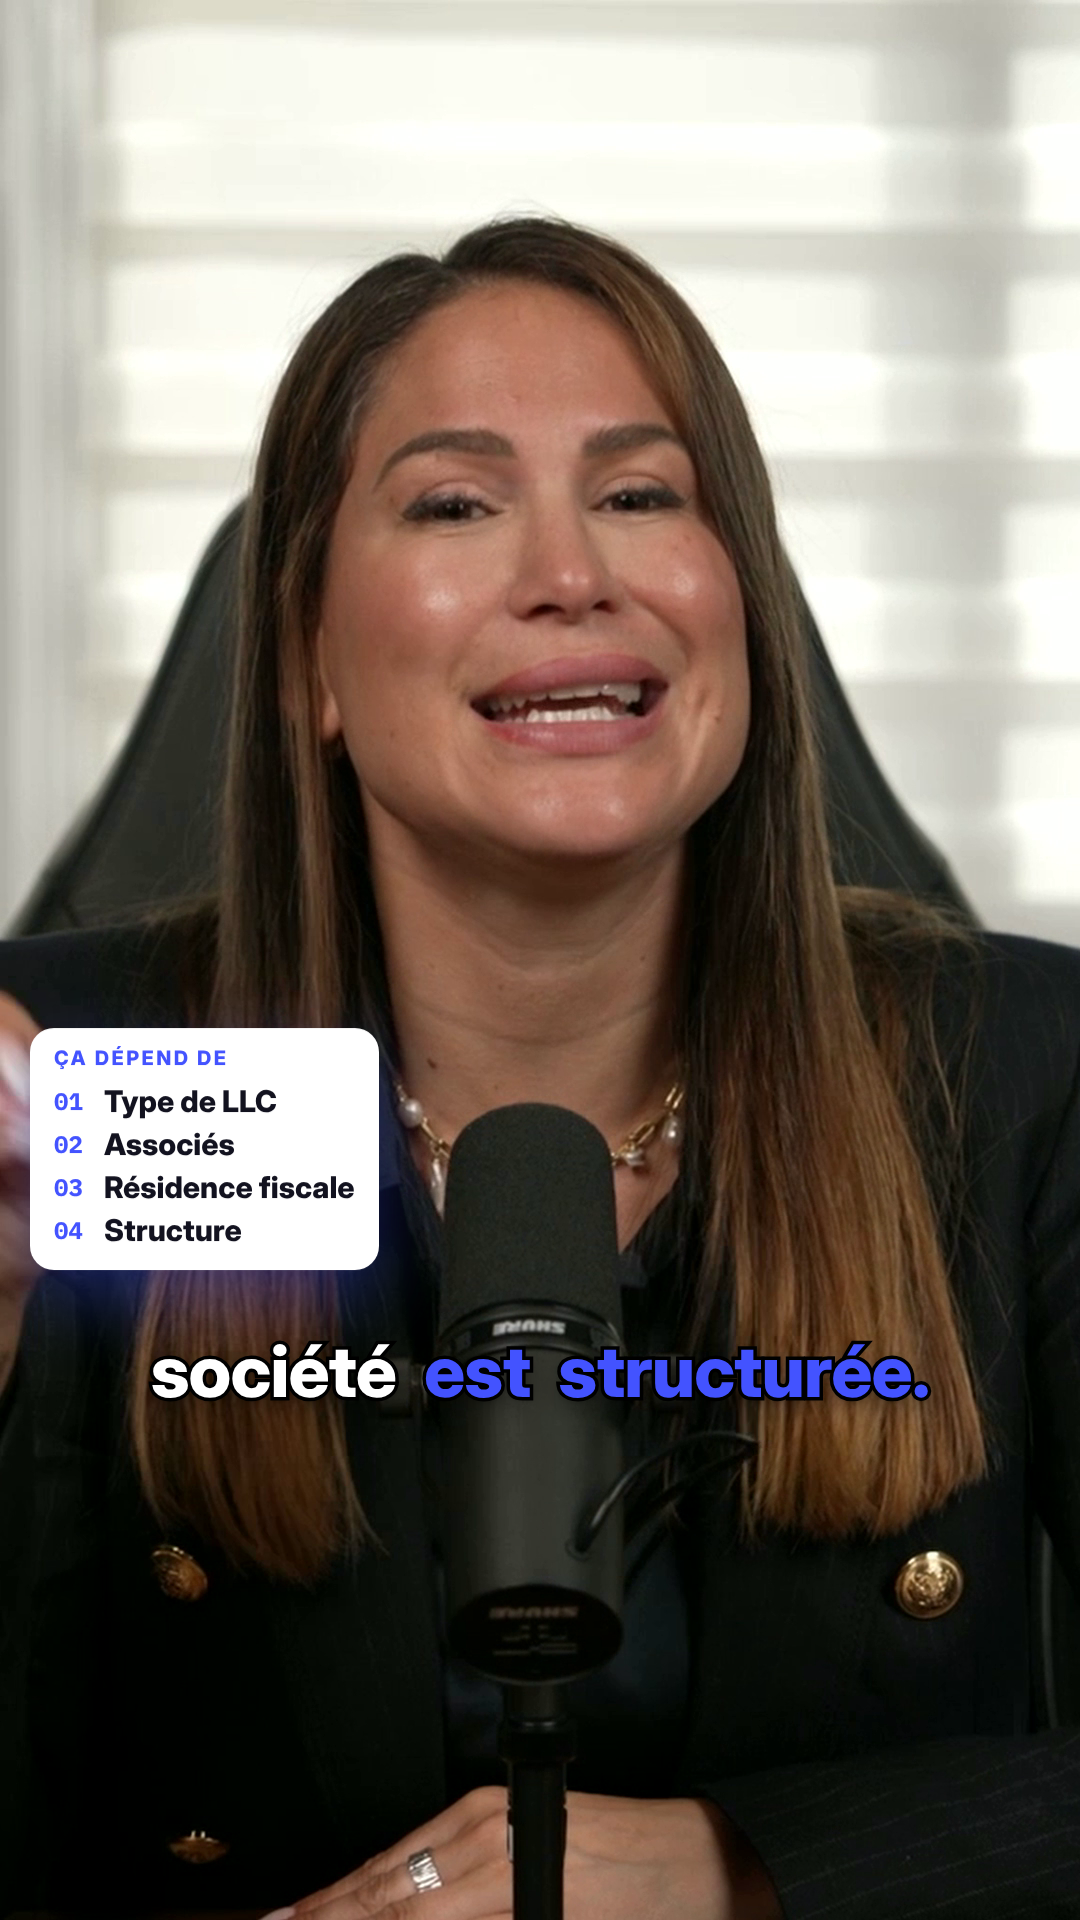
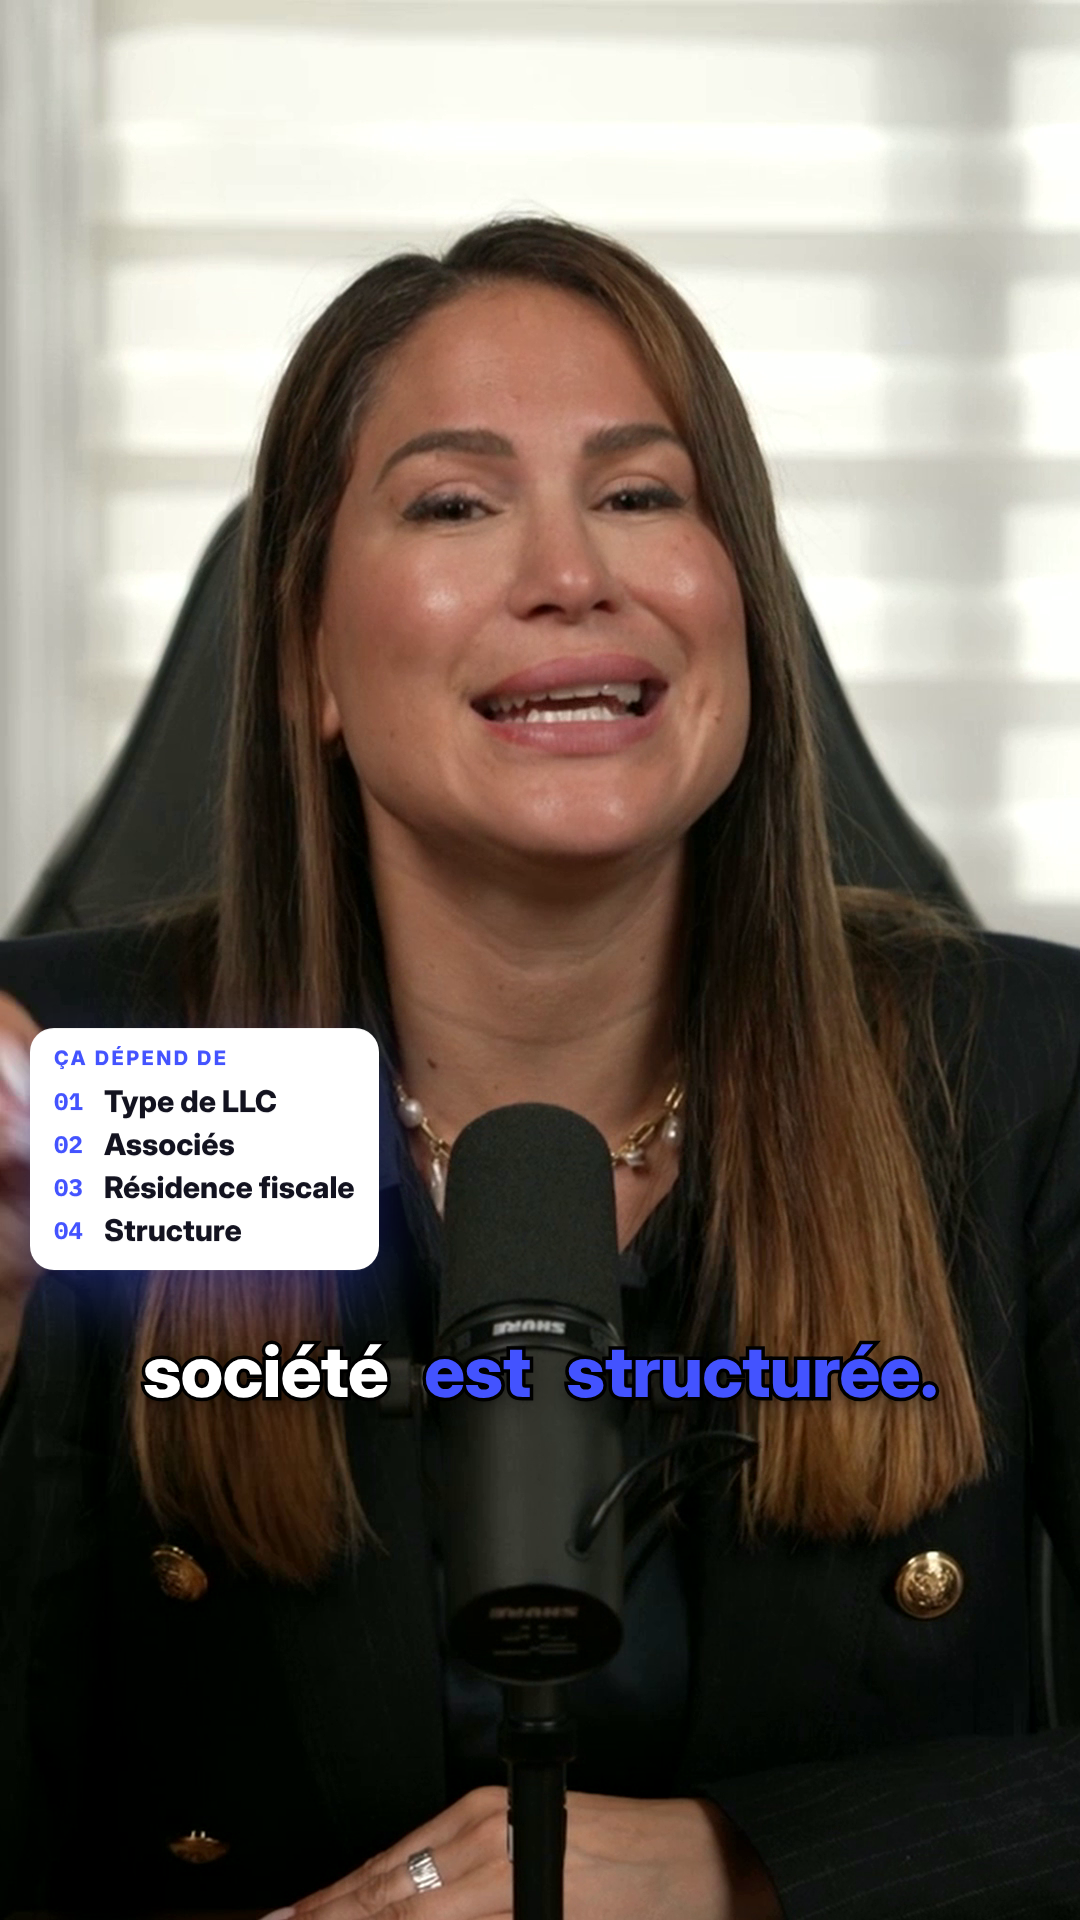
Reel LLC : rendu final, ducking musique adouci, espacement des mots-clés, effet LLC repositionné
Claude-Session: https://claude.ai/code/session_01U9MT51fHbTwq5PFUyVeAuN

Changed region(s): [[0.5194, 0.6875, 0.8861, 0.75], [0.1222, 0.6875, 0.3667, 0.75]]

diff --git a/work/overlay/overlay.html b/work/overlay/overlay.html
@@ -8,7 +8,7 @@
 html,body{margin:0;padding:0;background:transparent;width:1080px;height:1920px;overflow:hidden}
 #stage{position:relative;width:1080px;height:1920px;font-family:Inter,sans-serif}
 /* ---------- sous-titres ---------- */
-.group{position:absolute;left:60px;width:960px;top:1330px;display:flex;flex-wrap:wrap;justify-content:center;align-content:flex-start;column-gap:28px;row-gap:0;opacity:0;transform-origin:50% 50%;will-change:transform}
+.group{position:absolute;left:60px;width:960px;top:1330px;display:flex;flex-wrap:wrap;justify-content:center;align-content:flex-start;column-gap:36px;row-gap:0;opacity:0;transform-origin:50% 50%;will-change:transform}
 .w{font-family:Inter;font-weight:800;font-size:72px;line-height:1.14;color:#fff;letter-spacing:-0.012em;display:inline-block;transform-origin:50% 60%;
    -webkit-text-stroke:7px #000;paint-order:stroke fill;text-shadow:0 10px 26px rgba(0,0,0,.55),0 2px 6px rgba(0,0,0,.35)}
 .w.on{color:var(--blue)}
@@ -59,7 +59,7 @@ function buildSubs(groups){
       const s=spans[i]; const next=(i+1<g.words.length)?g.words[i+1].s:gEnd;
       tl.set(s,{className:'w'+(w.key?' key':'')+' on'},w.s);
       if(!w.key) tl.set(s,{className:'w'},Math.max(w.s+0.02,next));
-      if(w.key){ tl.fromTo(s,{scale:1},{scale:1.15,duration:0.11,ease:'back.out(3)'},w.s); tl.to(s,{scale:1.06,duration:0.14,ease:'power2.inOut'},w.s+0.11); }
+      if(w.key){ tl.fromTo(s,{scale:1},{scale:1.12,duration:0.11,ease:'back.out(3)'},w.s); tl.to(s,{scale:1.05,duration:0.14,ease:'power2.inOut'},w.s+0.11); }
     });
   }
 }

diff --git a/work/scripts/plan_fx.py b/work/scripts/plan_fx.py
@@ -11,12 +11,12 @@ CARDS=[  # start/end en temps source
  dict(type="list", label="Ça dépend de", numbered=True, rows=[dict(text="Type de LLC",t=80.7),dict(text="Associés",t=82.1),dict(text="Résidence fiscale",t=83.3),dict(text="Structure",t=85.5)], anchor="left", x=30, y=1035, start=80.5, end=87.15),
  dict(type="pill", text="Vérifie tes obligations", anchor="left", x=24, y=250, start=94.6, end=96.25),
  dict(type="pill", text="Vidéo complète en DM", anchor="right", x=1056, y=250, start=99.9, end=103.2),
- dict(type="pill", text="Commente « LLC »", html='Commente <span class="mono">LLC</span>', anchor="left", x=24, y=250, start=117.7, end=120.5),
+ dict(type="pill", text="Commente « LLC »", html='Commente <span class="mono">LLC</span>', anchor="left", x=30, y=1080, start=117.7, end=120.5),
 ]
 BEHIND=[
  dict(kind="mono", text=f"25{NBSP}000{NBSP}$", y=190, size=330, x0=160, x1=-520, start=9.55, end=12.75, sfx="impact"),
  dict(kind="outline", text="ERREUR", y=150, size=400, x0=120, x1=-1320, start=57.35, end=59.45, sfx="impact"),
- dict(kind="outline", text="LLC", y=200, size=520, x0=90, x1=-110, scale=[0.9,1.08], start=118.45, end=120.5, sfx="impact"),
+ dict(kind="outline", text="LLC", y=60, size=560, x0=60, x1=-100, scale=[0.9,1.08], start=118.45, end=120.5, sfx="impact"),
 ]
 def conv(items):
     out=[]

diff --git a/work/scripts/audio_mix.py b/work/scripts/audio_mix.py
@@ -28,10 +28,10 @@ import re
 def lufs(f):
     r=subprocess.run(["ffmpeg","-i",f,"-af","loudnorm=print_format=json","-f","null","-"],capture_output=True,text=True).stderr
     return float(re.search(r'"input_i"\s*:\s*"([-\d.]+)"',r).group(1))
-gv=-14-lufs("cut/voice.wav"); gm=-38-lufs("cut/music_cut.wav"); gs=-30-lufs("cut/sfx_track.wav")
+gv=-14-lufs("cut/voice.wav"); gm=-36-lufs("cut/music_cut.wav"); gs=-30-lufs("cut/sfx_track.wav")
 print("gains dB voix/musique/sfx",round(gv,2),round(gm,2),round(gs,2))
 subprocess.run(["ffmpeg","-v","error","-y","-i","cut/voice.wav","-i","cut/music_cut.wav","-i","cut/sfx_track.wav","-filter_complex",
-  f"[0]volume={gv}dB,asplit[v1][v2];[1]volume={gm}dB[m];[m][v2]sidechaincompress=threshold=0.03:ratio=5:attack=25:release=600:makeup=1[md];"
+  f"[0]volume={gv}dB,asplit[v1][v2];[1]volume={gm}dB[m];[m][v2]sidechaincompress=threshold=0.05:ratio=2.5:attack=30:release=700:makeup=1[md];"
   f"[2]volume={gs}dB[s];[v1][md][s]amix=inputs=3:normalize=0:dropout_transition=0,alimiter=limit=-1dB:attack=5:release=50:level=0[out]",
   "-map","[out]","-ar",str(sr),"-ac","2","cut/mix.wav"],check=True)
 for f in ["cut/voice.wav","cut/music_cut.wav","cut/sfx_track.wav","cut/mix.wav"]:

diff --git a/work/scripts/align.py b/work/scripts/align.py
@@ -66,8 +66,8 @@ from PIL import ImageFont
 _font=ImageFont.truetype("fonts/Inter-Variable.ttf",72)
 try: _font.set_variation_by_axes([800])
 except Exception: pass
-GAP=28; MAXW=960
-def wwidth(t): return _font.getlength(t["w"])*(1.06 if t["key"] else 1.0)+14  # +stroke
+GAP=36; MAXW=960
+def wwidth(t): return _font.getlength(t["w"])*(1.12 if t["key"] else 1.0)+14  # +stroke
 def nlines(ws):
     lines=1; cur=0
     for t in ws:
